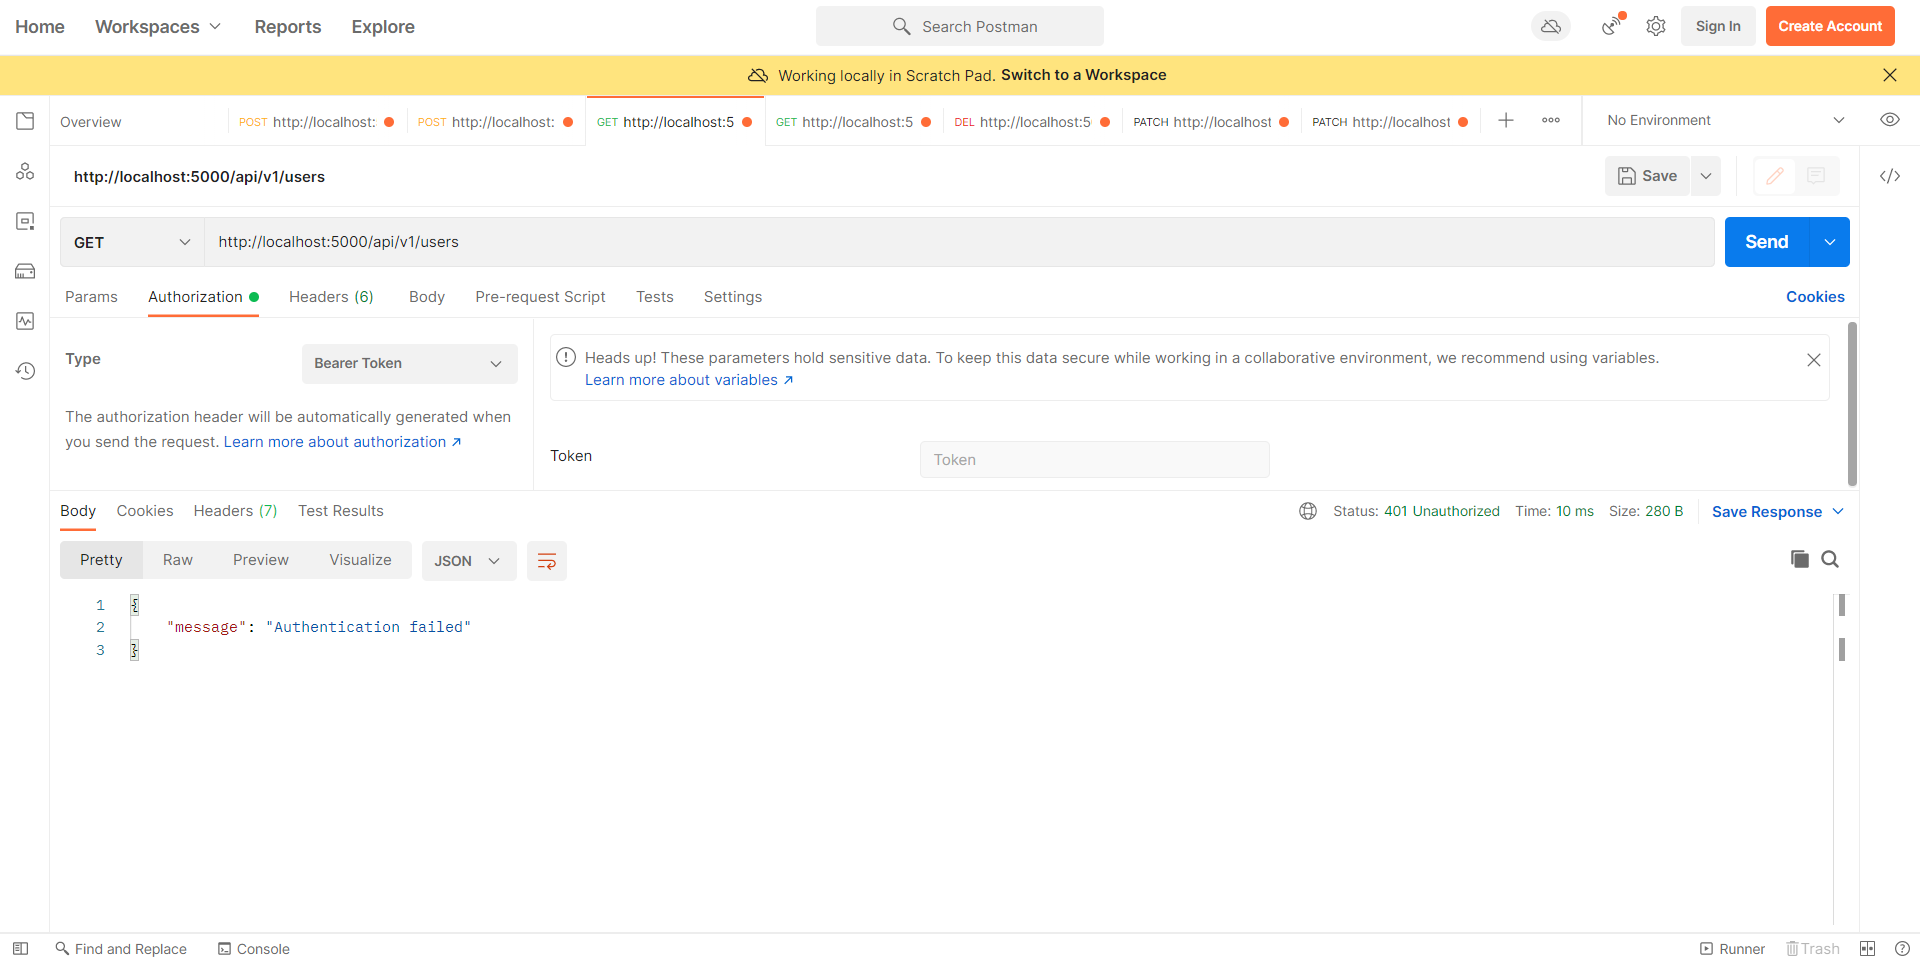
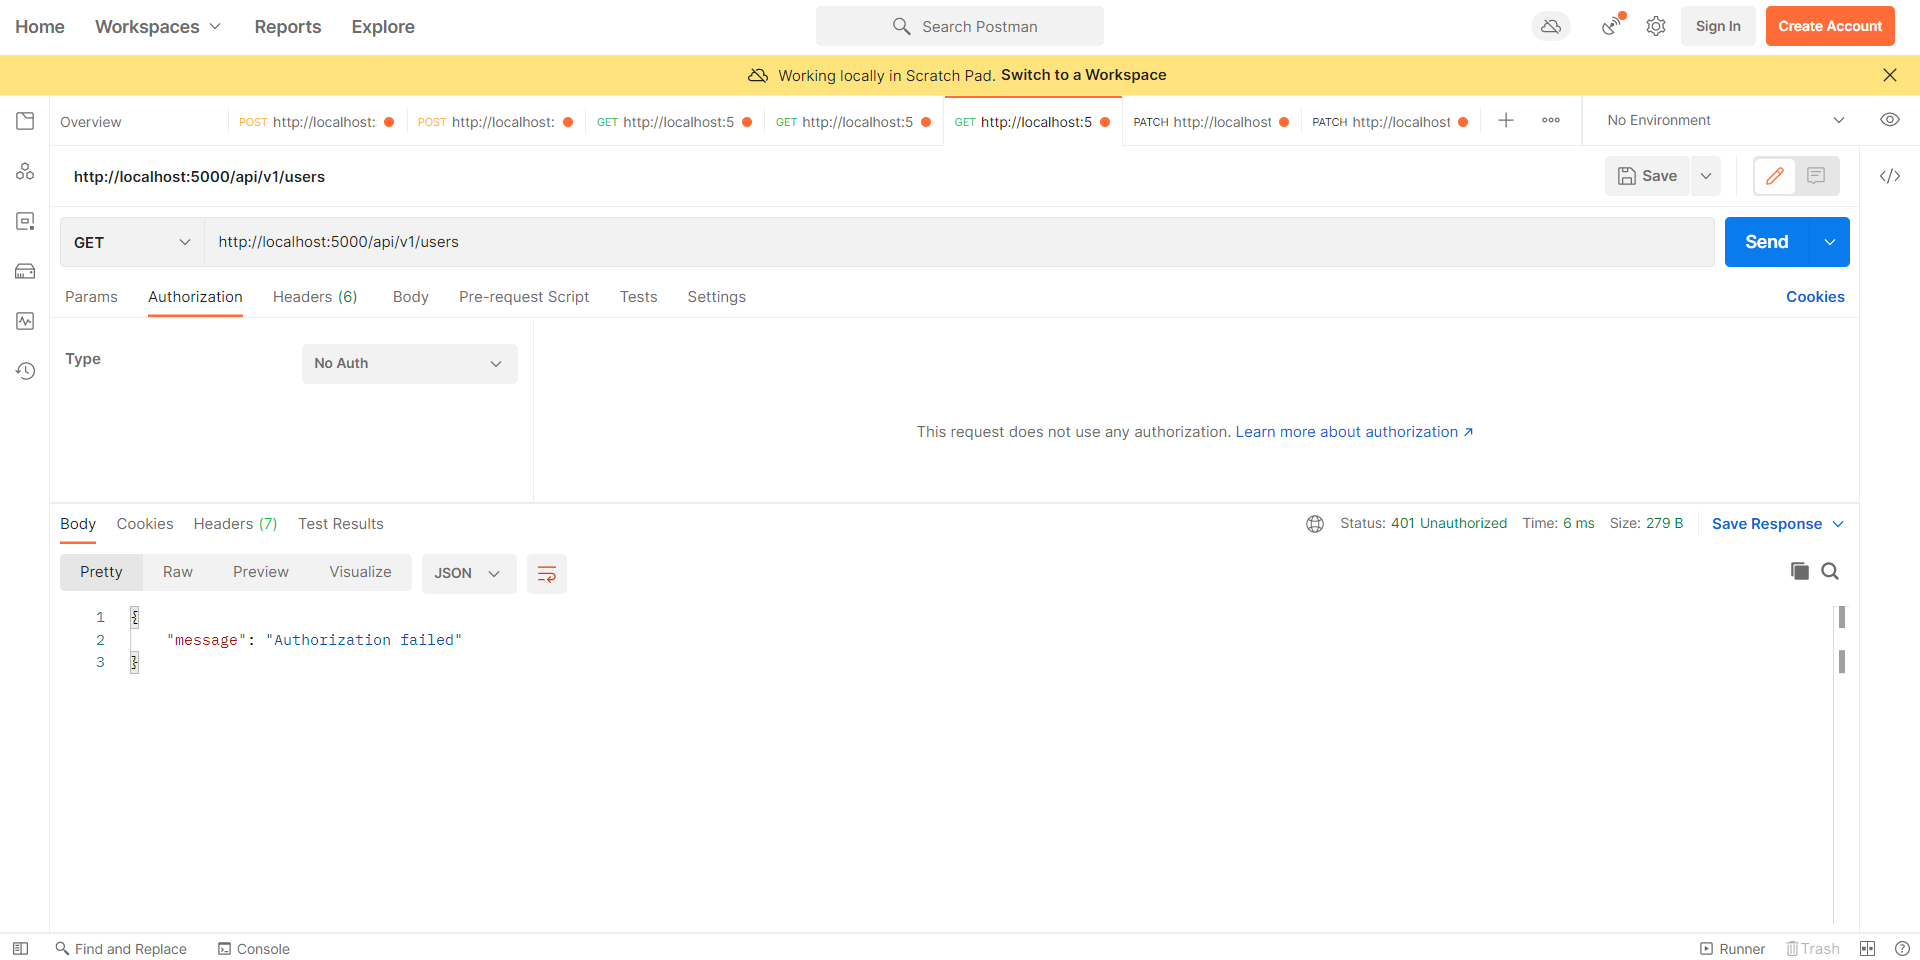
final commit

diff --git a/middleware/authenticateUser.js b/middleware/authenticateUser.js
@@ -8,7 +8,7 @@ module.exports = (req, res, next) => {
     next();
   } catch (error) {
     return res.status(401).json({
-      message: "Authentication failed",
+      message: "Authorization failed",
     });
   }
 };
